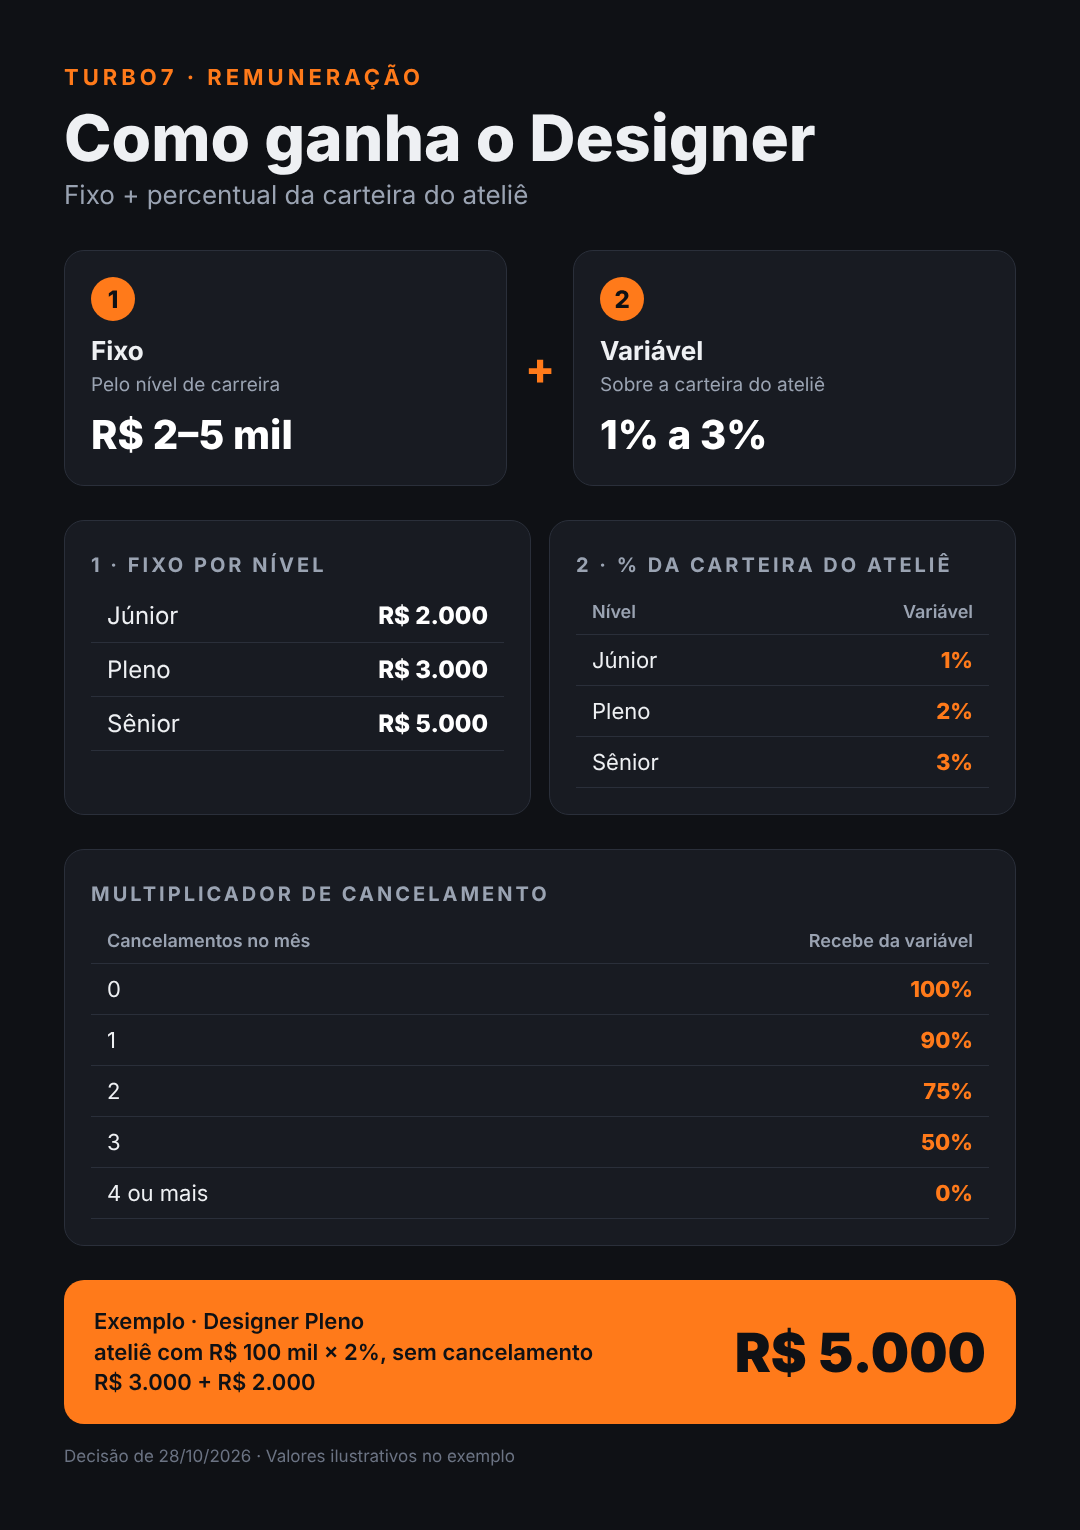
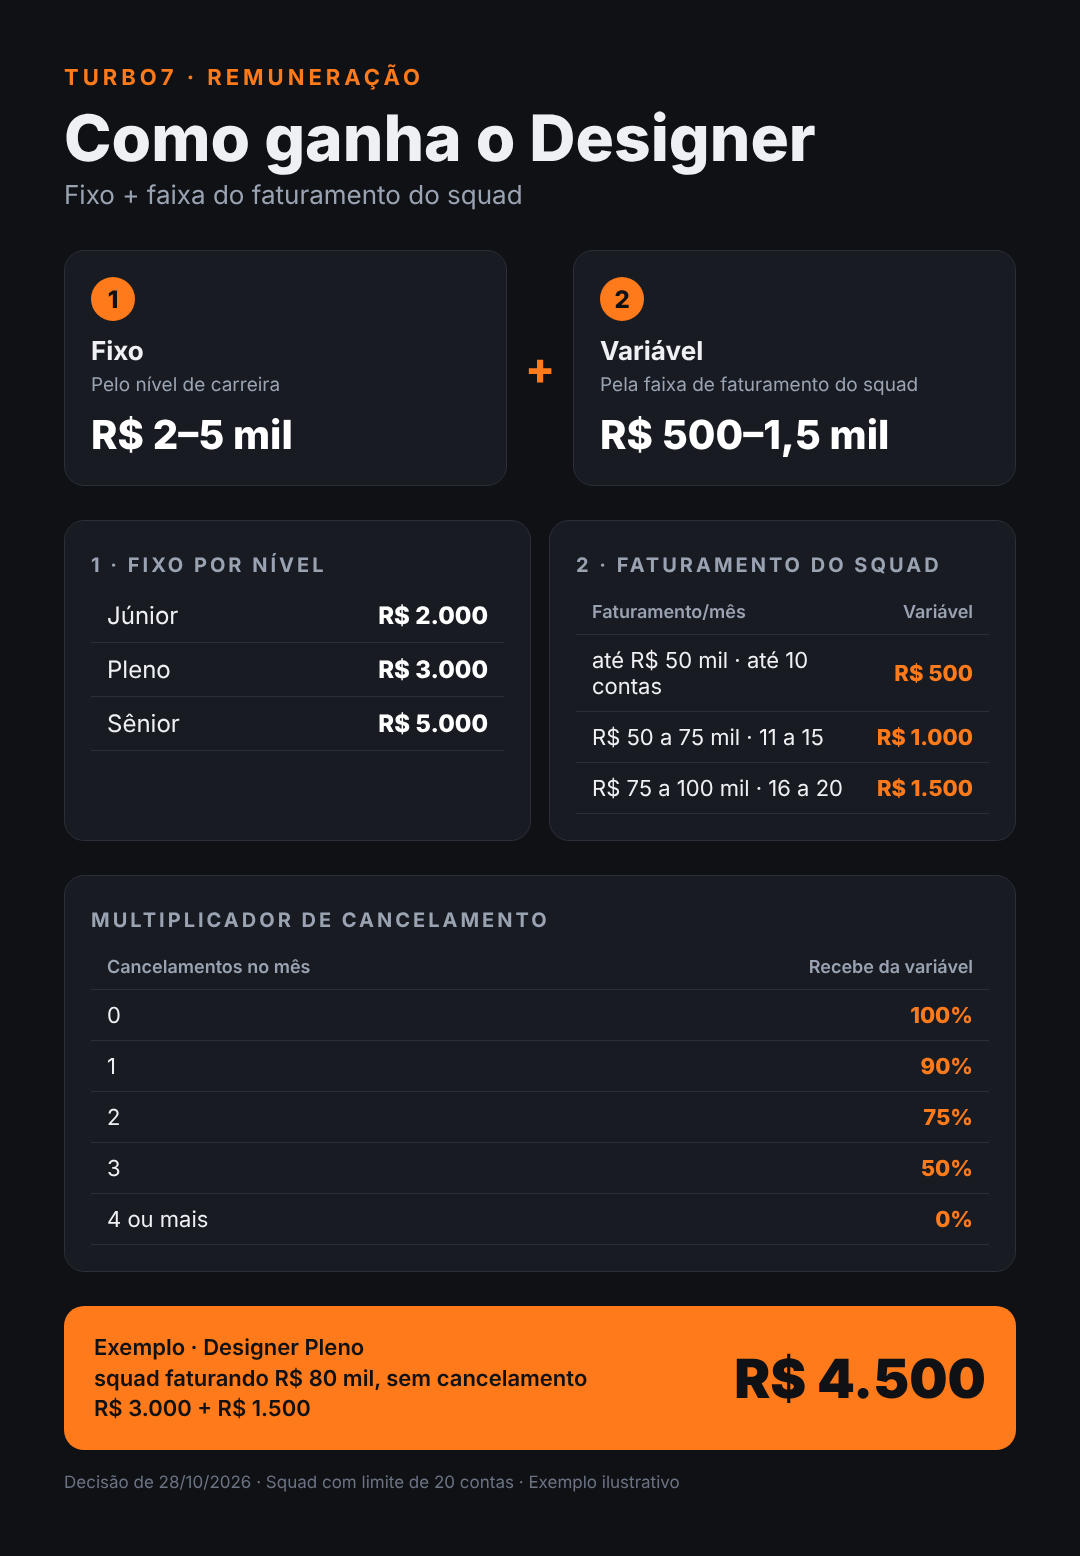
turbo7: gestor, TI e designer passam a faixa do faturamento do squad
Decisao do dono: squad com limite de 20 contas; variavel por faixa de
faturamento do squad (ate 50 mil / 50-75 / 75-100). Gestor 1.500/3.000/
4.000; TI e Designer 500/1.000/1.500; multiplicador de cancelamento mantido.

Claude-Session: https://claude.ai/code/session_01KYYUADMRM9FBPrDSj6jSzj

diff --git a/turbo7/designer.html b/turbo7/designer.html
@@ -18,7 +18,7 @@ td.v{text-align:right;font-weight:800;color:#ff7a1a}
 .ex{background:#ff7a1a;color:#0f1115;border-radius:20px;padding:26px 30px;margin-top:32px;display:flex;justify-content:space-between;align-items:center}
 .ex .l{font-size:22px;font-weight:600;line-height:1.4}.ex .r{font-size:54px;font-weight:900}
 .foot{margin-top:22px;font-size:17px;color:#6b7383}
-</style></head><body>
-<div class="k">TURBO7 · REMUNERAÇÃO</div><h1>Como ganha o Designer</h1><div class="sub">Fixo + percentual da carteira do ateliê</div>
-<div class="row"><div class="card"><div class="n">1</div><div class="t">Fixo</div><div class="d">Pelo nível de carreira</div><div class="big">R$ 2–5 mil</div></div><div class="plus">+</div><div class="card"><div class="n">2</div><div class="t">Variável</div><div class="d">Sobre a carteira do ateliê</div><div class="big">1% a 3%</div></div></div><div class="row"><div class="card"><div class="sec">1 · FIXO POR NÍVEL</div><table class="lv"><tr><td>Júnior</td><td class="v">R$ 2.000</td></tr><tr><td>Pleno</td><td class="v">R$ 3.000</td></tr><tr><td>Sênior</td><td class="v">R$ 5.000</td></tr></table></div><div class="card"><div class="sec">2 · % DA CARTEIRA DO ATELIÊ</div><table><tr><th>Nível</th><th style="text-align:right">Variável</th></tr><tr><td>Júnior</td><td class="v">1%</td></tr><tr><td>Pleno</td><td class="v">2%</td></tr><tr><td>Sênior</td><td class="v">3%</td></tr></table></div></div><div class="row"><div class="card"><div class="sec">MULTIPLICADOR DE CANCELAMENTO</div><table><tr><th>Cancelamentos no mês</th><th style="text-align:right">Recebe da variável</th></tr><tr><td>0</td><td class="v">100%</td></tr><tr><td>1</td><td class="v">90%</td></tr><tr><td>2</td><td class="v">75%</td></tr><tr><td>3</td><td class="v">50%</td></tr><tr><td>4 ou mais</td><td class="v">0%</td></tr></table></div></div><div class="ex"><div class="l">Exemplo · Designer Pleno<br>ateliê com R$ 100 mil × 2%, sem cancelamento<br>R$ 3.000 + R$ 2.000</div><div class="r">R$ 5.000</div></div>
-<div class="foot">Decisão de 28/10/2026 · Valores ilustrativos no exemplo</div></body></html>
+td.v,th{white-space:nowrap}td.v{width:1%}</style></head><body>
+<div class="k">TURBO7 · REMUNERAÇÃO</div><h1>Como ganha o Designer</h1><div class="sub">Fixo + faixa do faturamento do squad</div>
+<div class="row"><div class="card"><div class="n">1</div><div class="t">Fixo</div><div class="d">Pelo nível de carreira</div><div class="big">R$ 2–5 mil</div></div><div class="plus">+</div><div class="card"><div class="n">2</div><div class="t">Variável</div><div class="d">Pela faixa de faturamento do squad</div><div class="big">R$ 500–1,5 mil</div></div></div><div class="row"><div class="card"><div class="sec">1 · FIXO POR NÍVEL</div><table class="lv"><tr><td>Júnior</td><td class="v">R$ 2.000</td></tr><tr><td>Pleno</td><td class="v">R$ 3.000</td></tr><tr><td>Sênior</td><td class="v">R$ 5.000</td></tr></table></div><div class="card"><div class="sec">2 · FATURAMENTO DO SQUAD</div><table><tr><th>Faturamento/mês</th><th style="text-align:right">Variável</th></tr><tr><td>até R$ 50 mil · até 10 contas</td><td class="v">R$ 500</td></tr><tr><td>R$ 50 a 75 mil · 11 a 15</td><td class="v">R$ 1.000</td></tr><tr><td>R$ 75 a 100 mil · 16 a 20</td><td class="v">R$ 1.500</td></tr></table></div></div><div class="row"><div class="card"><div class="sec">MULTIPLICADOR DE CANCELAMENTO</div><table><tr><th>Cancelamentos no mês</th><th style="text-align:right">Recebe da variável</th></tr><tr><td>0</td><td class="v">100%</td></tr><tr><td>1</td><td class="v">90%</td></tr><tr><td>2</td><td class="v">75%</td></tr><tr><td>3</td><td class="v">50%</td></tr><tr><td>4 ou mais</td><td class="v">0%</td></tr></table></div></div><div class="ex"><div class="l">Exemplo · Designer Pleno<br>squad faturando R$ 80 mil, sem cancelamento<br>R$ 3.000 + R$ 1.500</div><div class="r">R$ 4.500</div></div>
+<div class="foot">Decisão de 28/10/2026 · Squad com limite de 20 contas · Exemplo ilustrativo</div></body></html>

diff --git a/turbo7/gestor-de-trafego.html b/turbo7/gestor-de-trafego.html
@@ -18,7 +18,7 @@ td.v{text-align:right;font-weight:800;color:#ff7a1a}
 .ex{background:#ff7a1a;color:#0f1115;border-radius:20px;padding:26px 30px;margin-top:32px;display:flex;justify-content:space-between;align-items:center}
 .ex .l{font-size:22px;font-weight:600;line-height:1.4}.ex .r{font-size:54px;font-weight:900}
 .foot{margin-top:22px;font-size:17px;color:#6b7383}
-</style></head><body>
-<div class="k">TURBO7 · REMUNERAÇÃO</div><h1>Como ganha o Gestor</h1><div class="sub">Fixo + percentual da própria carteira</div>
-<div class="row"><div class="card"><div class="n">1</div><div class="t">Fixo</div><div class="d">Pelo nível de carreira</div><div class="big">R$ 2–5 mil</div></div><div class="plus">+</div><div class="card"><div class="n">2</div><div class="t">Variável</div><div class="d">Sobre a carteira própria</div><div class="big">3% a 5%</div></div></div><div class="row"><div class="card"><div class="sec">1 · FIXO POR NÍVEL</div><table class="lv"><tr><td>Júnior</td><td class="v">R$ 2.000</td></tr><tr><td>Pleno</td><td class="v">R$ 3.000</td></tr><tr><td>Sênior</td><td class="v">R$ 5.000</td></tr></table></div><div class="card"><div class="sec">2 · % DA CARTEIRA PRÓPRIA</div><table><tr><th>Nível</th><th style="text-align:right">Variável</th></tr><tr><td>Júnior</td><td class="v">3%</td></tr><tr><td>Pleno</td><td class="v">4%</td></tr><tr><td>Sênior</td><td class="v">5%</td></tr></table></div></div><div class="row"><div class="card"><div class="sec">MULTIPLICADOR DE CANCELAMENTO</div><table><tr><th>Cancelamentos no mês</th><th style="text-align:right">Recebe da variável</th></tr><tr><td>0</td><td class="v">100%</td></tr><tr><td>1</td><td class="v">90%</td></tr><tr><td>2</td><td class="v">75%</td></tr><tr><td>3</td><td class="v">50%</td></tr><tr><td>4 ou mais</td><td class="v">0%</td></tr></table></div></div><div class="ex"><div class="l">Exemplo · Gestor Pleno, 20 contas<br>carteira de R$ 100 mil × 4%, sem cancelamento<br>R$ 3.000 + R$ 4.000</div><div class="r">R$ 7.000</div></div>
-<div class="foot">Decisão de 28/10/2026 · Valores ilustrativos no exemplo</div></body></html>
+td.v,th{white-space:nowrap}td.v{width:1%}</style></head><body>
+<div class="k">TURBO7 · REMUNERAÇÃO</div><h1>Como ganha o Gestor</h1><div class="sub">Fixo + faixa do faturamento do squad</div>
+<div class="row"><div class="card"><div class="n">1</div><div class="t">Fixo</div><div class="d">Pelo nível de carreira</div><div class="big">R$ 2–5 mil</div></div><div class="plus">+</div><div class="card"><div class="n">2</div><div class="t">Variável</div><div class="d">Pela faixa de faturamento do squad</div><div class="big">R$ 1,5–4 mil</div></div></div><div class="row"><div class="card"><div class="sec">1 · FIXO POR NÍVEL</div><table class="lv"><tr><td>Júnior</td><td class="v">R$ 2.000</td></tr><tr><td>Pleno</td><td class="v">R$ 3.000</td></tr><tr><td>Sênior</td><td class="v">R$ 5.000</td></tr></table></div><div class="card"><div class="sec">2 · FATURAMENTO DO SQUAD</div><table><tr><th>Faturamento/mês</th><th style="text-align:right">Variável</th></tr><tr><td>até R$ 50 mil · até 10 contas</td><td class="v">R$ 1.500</td></tr><tr><td>R$ 50 a 75 mil · 11 a 15</td><td class="v">R$ 3.000</td></tr><tr><td>R$ 75 a 100 mil · 16 a 20</td><td class="v">R$ 4.000</td></tr></table></div></div><div class="row"><div class="card"><div class="sec">MULTIPLICADOR DE CANCELAMENTO</div><table><tr><th>Cancelamentos no mês</th><th style="text-align:right">Recebe da variável</th></tr><tr><td>0</td><td class="v">100%</td></tr><tr><td>1</td><td class="v">90%</td></tr><tr><td>2</td><td class="v">75%</td></tr><tr><td>3</td><td class="v">50%</td></tr><tr><td>4 ou mais</td><td class="v">0%</td></tr></table></div></div><div class="ex"><div class="l">Exemplo · Gestor Pleno<br>squad faturando R$ 80 mil, sem cancelamento<br>R$ 3.000 + R$ 4.000</div><div class="r">R$ 7.000</div></div>
+<div class="foot">Decisão de 28/10/2026 · Squad com limite de 20 contas · Exemplo ilustrativo</div></body></html>

diff --git a/turbo7/ti-e-dados.html b/turbo7/ti-e-dados.html
@@ -18,7 +18,7 @@ td.v{text-align:right;font-weight:800;color:#ff7a1a}
 .ex{background:#ff7a1a;color:#0f1115;border-radius:20px;padding:26px 30px;margin-top:32px;display:flex;justify-content:space-between;align-items:center}
 .ex .l{font-size:22px;font-weight:600;line-height:1.4}.ex .r{font-size:54px;font-weight:900}
 .foot{margin-top:22px;font-size:17px;color:#6b7383}
-</style></head><body>
-<div class="k">TURBO7 · REMUNERAÇÃO</div><h1>Como ganha o TI e Dados</h1><div class="sub">Fixo + percentual da carteira do ateliê</div>
-<div class="row"><div class="card"><div class="n">1</div><div class="t">Fixo</div><div class="d">Pelo nível de carreira</div><div class="big">R$ 2–5 mil</div></div><div class="plus">+</div><div class="card"><div class="n">2</div><div class="t">Variável</div><div class="d">Sobre a carteira do ateliê</div><div class="big">1% a 3%</div></div></div><div class="row"><div class="card"><div class="sec">1 · FIXO POR NÍVEL</div><table class="lv"><tr><td>Júnior</td><td class="v">R$ 2.000</td></tr><tr><td>Pleno</td><td class="v">R$ 3.000</td></tr><tr><td>Sênior</td><td class="v">R$ 5.000</td></tr></table></div><div class="card"><div class="sec">2 · % DA CARTEIRA DO ATELIÊ</div><table><tr><th>Nível</th><th style="text-align:right">Variável</th></tr><tr><td>Júnior</td><td class="v">1%</td></tr><tr><td>Pleno</td><td class="v">2%</td></tr><tr><td>Sênior</td><td class="v">3%</td></tr></table></div></div><div class="row"><div class="card"><div class="sec">MULTIPLICADOR DE CANCELAMENTO</div><table><tr><th>Cancelamentos no mês</th><th style="text-align:right">Recebe da variável</th></tr><tr><td>0</td><td class="v">100%</td></tr><tr><td>1</td><td class="v">90%</td></tr><tr><td>2</td><td class="v">75%</td></tr><tr><td>3</td><td class="v">50%</td></tr><tr><td>4 ou mais</td><td class="v">0%</td></tr></table></div></div><div class="ex"><div class="l">Exemplo · TI Pleno<br>ateliê com R$ 100 mil × 2%, sem cancelamento<br>R$ 3.000 + R$ 2.000</div><div class="r">R$ 5.000</div></div>
-<div class="foot">Decisão de 28/10/2026 · Valores ilustrativos no exemplo</div></body></html>
+td.v,th{white-space:nowrap}td.v{width:1%}</style></head><body>
+<div class="k">TURBO7 · REMUNERAÇÃO</div><h1>Como ganha o TI e Dados</h1><div class="sub">Fixo + faixa do faturamento do squad</div>
+<div class="row"><div class="card"><div class="n">1</div><div class="t">Fixo</div><div class="d">Pelo nível de carreira</div><div class="big">R$ 2–5 mil</div></div><div class="plus">+</div><div class="card"><div class="n">2</div><div class="t">Variável</div><div class="d">Pela faixa de faturamento do squad</div><div class="big">R$ 500–1,5 mil</div></div></div><div class="row"><div class="card"><div class="sec">1 · FIXO POR NÍVEL</div><table class="lv"><tr><td>Júnior</td><td class="v">R$ 2.000</td></tr><tr><td>Pleno</td><td class="v">R$ 3.000</td></tr><tr><td>Sênior</td><td class="v">R$ 5.000</td></tr></table></div><div class="card"><div class="sec">2 · FATURAMENTO DO SQUAD</div><table><tr><th>Faturamento/mês</th><th style="text-align:right">Variável</th></tr><tr><td>até R$ 50 mil · até 10 contas</td><td class="v">R$ 500</td></tr><tr><td>R$ 50 a 75 mil · 11 a 15</td><td class="v">R$ 1.000</td></tr><tr><td>R$ 75 a 100 mil · 16 a 20</td><td class="v">R$ 1.500</td></tr></table></div></div><div class="row"><div class="card"><div class="sec">MULTIPLICADOR DE CANCELAMENTO</div><table><tr><th>Cancelamentos no mês</th><th style="text-align:right">Recebe da variável</th></tr><tr><td>0</td><td class="v">100%</td></tr><tr><td>1</td><td class="v">90%</td></tr><tr><td>2</td><td class="v">75%</td></tr><tr><td>3</td><td class="v">50%</td></tr><tr><td>4 ou mais</td><td class="v">0%</td></tr></table></div></div><div class="ex"><div class="l">Exemplo · TI Pleno<br>squad faturando R$ 80 mil, sem cancelamento<br>R$ 3.000 + R$ 1.500</div><div class="r">R$ 4.500</div></div>
+<div class="foot">Decisão de 28/10/2026 · Squad com limite de 20 contas · Exemplo ilustrativo</div></body></html>
